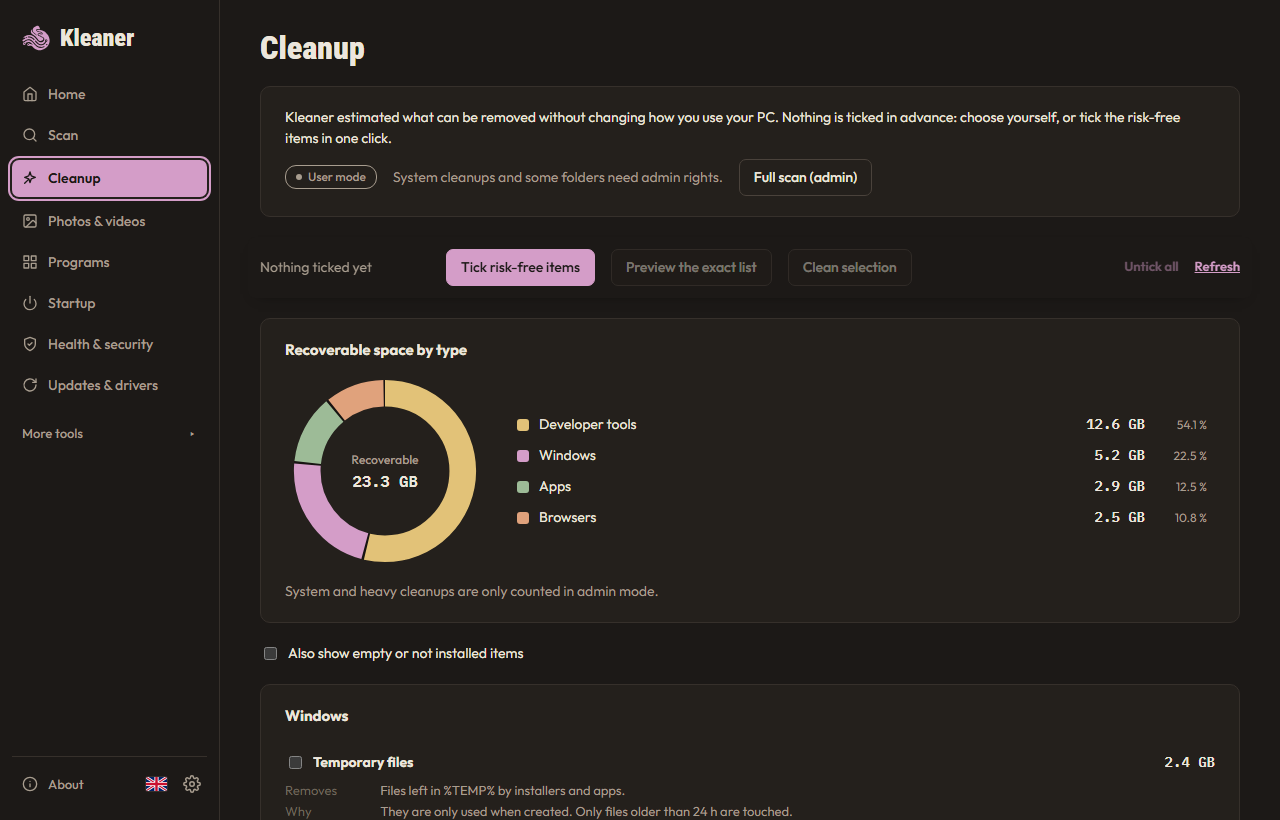
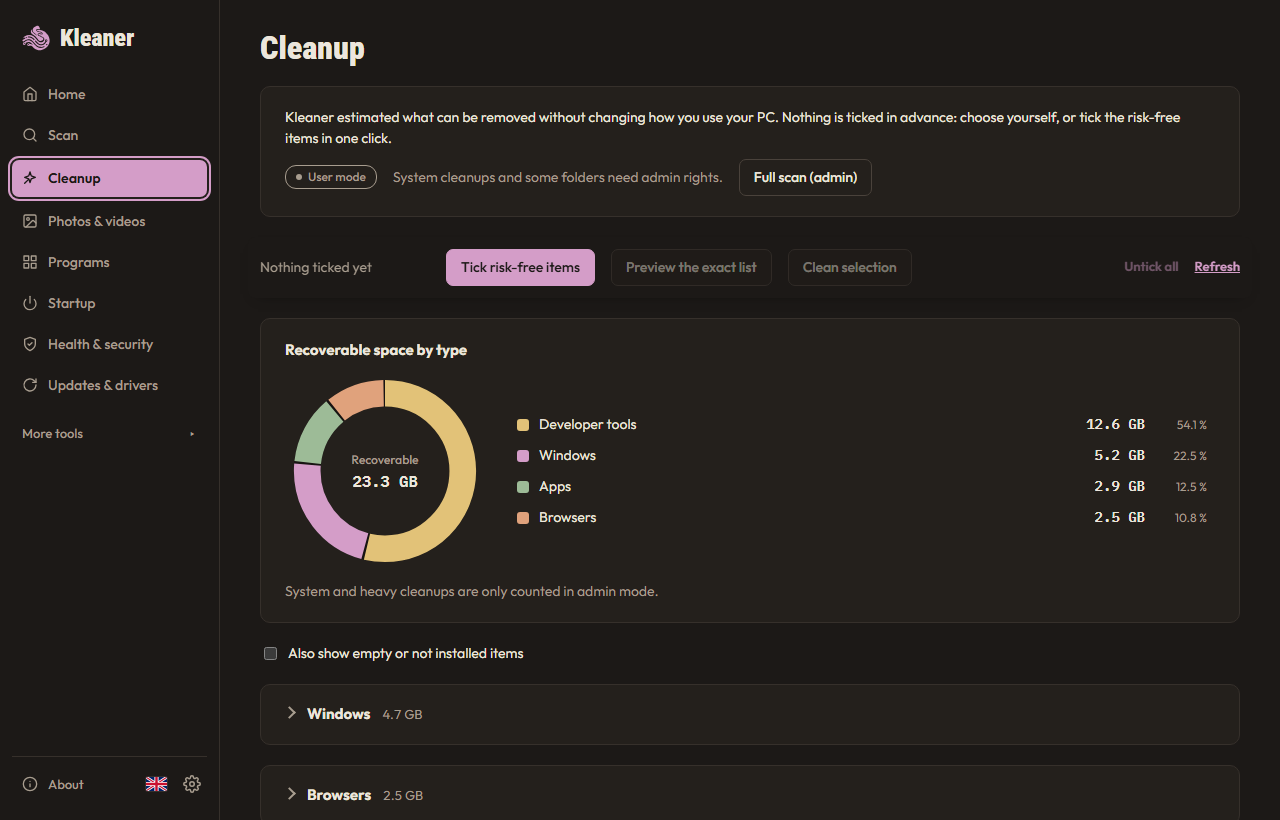
Cartes repliées compactes, pas de « 0 o » pour une catégorie non estimée ; notes de version 1.2.0 et captures du README à jour

Changed region(s): [[0.2188, 0.9146, 0.625, 1.0], [0.2188, 0.8537, 0.3438, 0.8841], [0.9062, 0.9146, 0.9688, 0.9451]]

diff --git a/src/styles/app.css b/src/styles/app.css
@@ -214,7 +214,16 @@ html.mica .sidebar {
   gap: 10px;
 }
 
-/* Carte repliable : titre + résumé sur une ligne, flèche qui tourne */
+/* Carte repliable : titre + résumé sur une ligne, flèche qui tourne. Fermée : rien que la ligne de titre. */
+.fold {
+  padding: 0 24px;
+}
+.fold:not([open]) {
+  gap: 0;
+}
+.fold[open] {
+  padding-bottom: 20px;
+}
 .fold > summary {
   display: flex;
   align-items: baseline;
@@ -222,8 +231,8 @@ html.mica .sidebar {
   gap: 4px 12px;
   cursor: pointer;
   list-style: none;
-  margin: -20px -24px;
-  padding: 20px 24px 20px 46px;
+  margin: 0 -24px;
+  padding: 18px 24px 18px 46px;
   border-radius: var(--radius-card);
   position: relative;
 }
@@ -234,7 +243,7 @@ html.mica .sidebar {
   content: "";
   position: absolute;
   left: 24px;
-  top: 25px;
+  top: 23px;
   width: 7px;
   height: 7px;
   border-right: 2px solid var(--muted);
@@ -253,7 +262,6 @@ html.mica .sidebar {
   outline-offset: -2px;
 }
 .fold[open] > summary {
-  margin-bottom: 0;
   padding-bottom: 8px;
 }
 .fold-summary {

diff --git a/src/pages/Cleanup.tsx b/src/pages/Cleanup.tsx
@@ -283,7 +283,7 @@ export function Cleanup({ quick = false, onQuickDone }: { quick?: boolean; onQui
         if (all.length === 0) return null;
         const bytes = items.reduce((n, c) => n + (estimates?.get(c.id)?.bytes ?? 0), 0);
         const ticked = items.filter((c) => selected.has(c.id)).length;
-        const summary = [estimates && formatBytes(bytes, lang), ticked > 0 && `${ticked} ${t("cleanup.ticked")}`].filter(Boolean).join(" · ");
+        const summary = [bytes > 0 && formatBytes(bytes, lang), ticked > 0 && `${ticked} ${t("cleanup.ticked")}`].filter(Boolean).join(" · ");
         return (
           <Card key={g} title={t(`group.${g}` as Key)} fold={{ id: `cleanup-${g}`, summary }}>
             {g === "community" && <p className="muted">{t("cleanup.communityIntro")}</p>}

diff --git a/docs/release-notes/v1.2.0.md b/docs/release-notes/v1.2.0.md
@@ -16,6 +16,8 @@ Windows 10 or 11, 64-bit. Kleaner is not signed yet: if Windows says “Windows 
 - **CompactOS**: a new heavy cleanup that compresses Windows files (2 to 5 GB on most PCs). It can be undone.
 - **Filters in Scan**: filter the largest files and folders by name, verdict or age.
 - **Monthly reminder** (start with Windows): at most once a month, a notification says how much the risk-free cleanups would free, when it is over 1 GB. It can be turned off in Settings. Kleaner still never cleans by itself.
+- **Faster to use**: slow pages (Programs, Startup, Health, Updates, Tips, Broken shortcuts) load in the background right after Kleaner opens and keep their results when you switch pages. Searches start by themselves, except Windows Update and winget, which still only go online when you click.
+- **Shorter pages**: Cleanup categories, heavy cleanups, leftovers, ghost entries and preinstalled apps fold into one line with their size or count; Kleaner remembers which ones you opened. In Scan, the breakdown by type and the 10 largest folders sit side by side.
 - **Better explanations**: 16 new rules with their official source shown in the verdict card (Xbox and Riot games, AMD installer files, Go, Yarn, NuGet, Cargo, Unity, Adobe media cache, Epic, Teams, JetBrains, Spotify, VirtualBox, Anaconda).
 
 ## Fixes
@@ -30,6 +32,6 @@ Nothing changes here: your files only go to the Recycle Bin, permanent deletion 
 
 ## En français
 
-Kleaner 1.2 : page **Conseils** (vieux installeurs, archives déjà extraites, jeux Steam oubliés), **applis préinstallées** retirables pour ton compte (liste fermée, réinstallables depuis le Store), **point de restauration** avant chaque nettoyage lourd, nouveau nettoyage **CompactOS**, **filtres** dans l'Analyse, **rappel mensuel** désactivable, 16 nouvelles explications avec leur source officielle. Plus fluide : plus de fenêtre figée pendant la mise à la Corbeille, estimation du nettoyage bien plus rapide. Téléchargement : **[swaks.org/fr/kleaner](https://swaks.org/fr/kleaner/)**.
+Kleaner 1.2 : page **Conseils** (vieux installeurs, archives déjà extraites, jeux Steam oubliés), **applis préinstallées** retirables pour ton compte (liste fermée, réinstallables depuis le Store), **point de restauration** avant chaque nettoyage lourd, nouveau nettoyage **CompactOS**, **filtres** dans l'Analyse, **rappel mensuel** désactivable, pages lentes chargées en arrière-plan, cartes repliables, 16 nouvelles explications avec leur source officielle. Plus fluide : plus de fenêtre figée pendant la mise à la Corbeille, estimation du nettoyage bien plus rapide. Téléchargement : **[swaks.org/fr/kleaner](https://swaks.org/fr/kleaner/)**.
 
 Found a bug or have an idea? [Report a bug](https://github.com/Swaksm/Kleaner/issues/new?template=bug.yml) · [Suggest an idea](https://github.com/Swaksm/Kleaner/issues/new?template=idea.yml) · or, without an account, on [swaks.org/kleaner](https://swaks.org/kleaner/#feedback).
